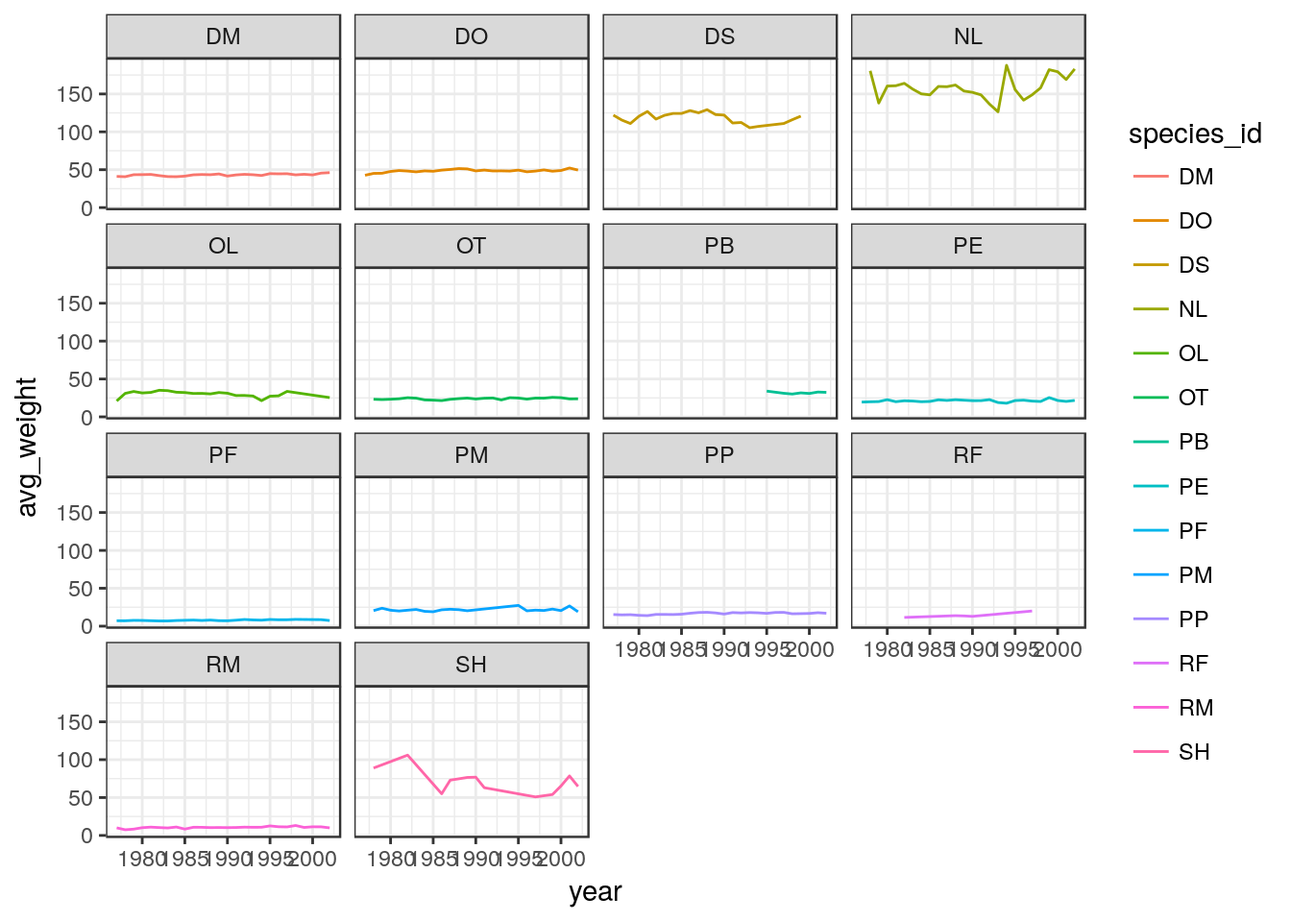
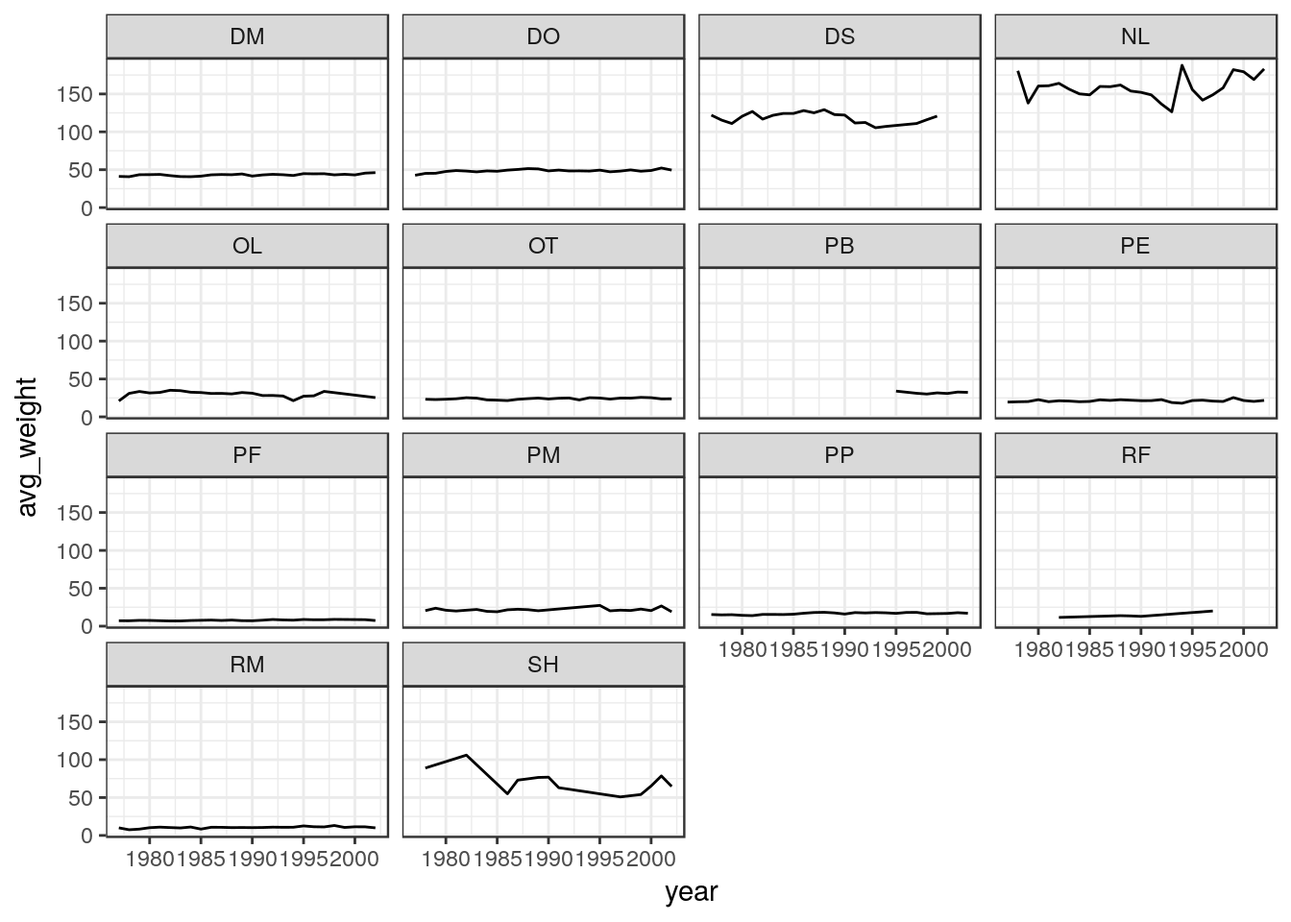
regenerate lesson

diff --git a/04-visualization-ggplot2.html b/04-visualization-ggplot2.html
@@ -368,8 +368,10 @@ div.tocify {
 </ul>
 </blockquote>
 <hr />
-<p>We start by loading the required packages.</p>
+<p>We start by loading the required packages. <strong><code>ggplot2</code></strong> is included in the <strong><code>tidyverse</code></strong> package.</p>
 <div class="sourceCode"><pre class="sourceCode r"><code class="sourceCode r"><span class="kw">library</span>(tidyverse)</code></pre></div>
+<p>If not still in the workspace, load the data we saved in the previous lesson.</p>
+<div class="sourceCode"><pre class="sourceCode r"><code class="sourceCode r">surveys_complete &lt;-<span class="st"> </span><span class="kw">read.csv</span>(<span class="st">&#39;data_output/surveys_complete.csv&#39;</span>)</code></pre></div>
 <div id="plotting-with-ggplot2" class="section level2">
 <h2>Plotting with <strong><code>ggplot2</code></strong></h2>
 <p><strong><code>ggplot2</code></strong> is a plotting package that makes it simple to create complex plots from data in a data frame. It provides a more programmatic interface for specifying what variables to plot, how they are displayed, and general visual properties, so we only need minimal changes if the underlying data change or if we decide to change from a bar plot to a scatterplot. This helps in creating publication quality plots with minimal amounts of adjustments and tweaking.</p>
@@ -413,7 +415,7 @@ surveys_plot
 <h3 id="challenge-optional">Challenge (optional)</h3>
 <p>Scatter plots can be useful exploratory tools for small datasets. For data sets with large numbers of observations, such as the <code>surveys_complete</code> data set, overplotting of points can be a limitation of scatter plots. One strategy for handling such settings is to use hexagonal binning of observations. The plot space is tessellated into hexagons. Each hexagon is assigned a color based on the number of observations that fall within its boundaries. To use hexagonal binning with <strong><code>ggplot2</code></strong>, first install the R package <code>hexbin</code> from CRAN:</p>
 <div class="sourceCode"><pre class="sourceCode r"><code class="sourceCode r"><span class="kw">install.packages</span>(<span class="st">&quot;hexbin&quot;</span>)</code></pre></div>
-<p>Then use <code>geom_hex()</code> function from the <strong><code>ggplot2</code></strong> package.</p>
+<p>Then use the <code>geom_hex()</code> function:</p>
 <div class="sourceCode"><pre class="sourceCode r"><code class="sourceCode r">surveys_plot +
 <span class="st"> </span><span class="kw">geom_hex</span>()</code></pre></div>
 <ul>
@@ -427,7 +429,7 @@ surveys_plot
 <div class="sourceCode"><pre class="sourceCode r"><code class="sourceCode r"><span class="kw">ggplot</span>(<span class="dt">data =</span> surveys_complete, <span class="kw">aes</span>(<span class="dt">x =</span> weight, <span class="dt">y =</span> hindfoot_length)) +
 <span class="st">    </span><span class="kw">geom_point</span>()</code></pre></div>
 <p><img src="img/R-ecology-create-ggplot-object-1.png" width="672" /></p>
-<p>Then, we start modifying this plot to extract more information from it. For instance, we can add transparency (alpha) to avoid overplotting:</p>
+<p>Then, we start modifying this plot to extract more information from it. For instance, we can add transparency (<code>alpha</code>) to avoid overplotting:</p>
 <div class="sourceCode"><pre class="sourceCode r"><code class="sourceCode r"><span class="kw">ggplot</span>(<span class="dt">data =</span> surveys_complete, <span class="kw">aes</span>(<span class="dt">x =</span> weight, <span class="dt">y =</span> hindfoot_length)) +
 <span class="st">    </span><span class="kw">geom_point</span>(<span class="dt">alpha =</span> <span class="fl">0.1</span>)</code></pre></div>
 <p><img src="img/R-ecology-adding-transparency-1.png" width="672" /></p>
@@ -439,6 +441,10 @@ surveys_plot
 <div class="sourceCode"><pre class="sourceCode r"><code class="sourceCode r"><span class="kw">ggplot</span>(<span class="dt">data =</span> surveys_complete, <span class="kw">aes</span>(<span class="dt">x =</span> weight, <span class="dt">y =</span> hindfoot_length)) +
 <span class="st">    </span><span class="kw">geom_point</span>(<span class="dt">alpha =</span> <span class="fl">0.1</span>, <span class="kw">aes</span>(<span class="dt">color=</span>species_id))</code></pre></div>
 <p><img src="img/R-ecology-color-by-species-1.png" width="672" /></p>
+<blockquote>
+<h3 id="challenge">Challenge</h3>
+<p>Use what you just learned to create a scatter plot of <code>weight</code> over <code>species_id</code> with the plot types showing in different colors. Is this a good way to show this type of data?</p>
+</blockquote>
 </div>
 <div id="boxplot" class="section level2">
 <h2>Boxplot</h2>
@@ -453,7 +459,7 @@ surveys_plot
 <p><img src="img/R-ecology-boxplot-with-points-1.png" width="672" /></p>
 <p>Notice how the boxplot layer is behind the jitter layer? What do you need to change in the code to put the boxplot in front of the points such that it’s not hidden?</p>
 <blockquote>
-<h3 id="challenges-optional">Challenges (optional)</h3>
+<h3 id="challenges">Challenges</h3>
 <p>Boxplots are useful summaries, but hide the <em>shape</em> of the distribution. For example, if there is a bimodal distribution, it would not be observed with a boxplot. An alternative to the boxplot is the violin plot (sometimes known as a beanplot), where the shape (of the density of points) is drawn.</p>
 <ul>
 <li>Replace the box plot with a violin plot; see <code>geom_violin()</code>.</li>
@@ -468,7 +474,9 @@ surveys_plot
 <li><p>Add color to the datapoints on your boxplot according to the plot from which the sample was taken (<code>plot_id</code>).</p></li>
 </ul>
 </blockquote>
+<blockquote>
 <p>Hint: Check the class for <code>plot_id</code>. Consider changing the class of <code>plot_id</code> from integer to factor. Why does this change how R makes the graph?</p>
+</blockquote>
 </div>
 <div id="plotting-time-series-data" class="section level2">
 <h2>Plotting time series data</h2>
@@ -484,51 +492,42 @@ surveys_plot
 <div class="sourceCode"><pre class="sourceCode r"><code class="sourceCode r"><span class="kw">ggplot</span>(<span class="dt">data =</span> yearly_counts, <span class="kw">aes</span>(<span class="dt">x =</span> year, <span class="dt">y =</span> n, <span class="dt">group =</span> species_id)) +
 <span class="st">    </span><span class="kw">geom_line</span>()</code></pre></div>
 <p><img src="img/R-ecology-time-series-by-species-1.png" width="672" /></p>
-<p>We will be able to distinguish species in the plot if we add colors:</p>
-<div class="sourceCode"><pre class="sourceCode r"><code class="sourceCode r"><span class="kw">ggplot</span>(<span class="dt">data =</span> yearly_counts, <span class="kw">aes</span>(<span class="dt">x =</span> year, <span class="dt">y =</span> n, <span class="dt">group =</span> species_id, <span class="dt">colour =</span> species_id)) +
+<p>We will be able to distinguish species in the plot if we add colors (using <code>color</code> also automatically groups the data):</p>
+<div class="sourceCode"><pre class="sourceCode r"><code class="sourceCode r"><span class="kw">ggplot</span>(<span class="dt">data =</span> yearly_counts, <span class="kw">aes</span>(<span class="dt">x =</span> year, <span class="dt">y =</span> n, <span class="dt">color =</span> species_id)) +
 <span class="st">    </span><span class="kw">geom_line</span>()</code></pre></div>
 <p><img src="img/R-ecology-time-series-with-colors-1.png" width="672" /></p>
 </div>
 <div id="faceting" class="section level2">
 <h2>Faceting</h2>
 <p>ggplot has a special technique called <em>faceting</em> that allows the user to split one plot into multiple plots based on a factor included in the dataset. We will use it to make a time series plot for each species:</p>
-<div class="sourceCode"><pre class="sourceCode r"><code class="sourceCode r"><span class="kw">ggplot</span>(<span class="dt">data =</span> yearly_counts, <span class="kw">aes</span>(<span class="dt">x =</span> year, <span class="dt">y =</span> n, <span class="dt">group =</span> species_id, <span class="dt">colour =</span> species_id)) +
+<div class="sourceCode"><pre class="sourceCode r"><code class="sourceCode r"><span class="kw">ggplot</span>(<span class="dt">data =</span> yearly_counts, <span class="kw">aes</span>(<span class="dt">x =</span> year, <span class="dt">y =</span> n)) +
 <span class="st">    </span><span class="kw">geom_line</span>() +
 <span class="st">    </span><span class="kw">facet_wrap</span>(~<span class="st"> </span>species_id)</code></pre></div>
 <p><img src="img/R-ecology-first-facet-1.png" width="672" /></p>
-<p>Now we would like to split the line in each plot by the sex of each individual measured. To do that we need to make counts in the data frame grouped by year, species_id, and sex:</p>
+<p>Now we would like to split the line in each plot by the sex of each individual measured. To do that we need to make counts in the data frame grouped by <code>year</code>, <code>species_id</code>, and <code>sex</code>:</p>
 <div class="sourceCode"><pre class="sourceCode r"><code class="sourceCode r"> yearly_sex_counts &lt;-<span class="st"> </span>surveys_complete %&gt;%
 <span class="st">                      </span><span class="kw">group_by</span>(year, species_id, sex) %&gt;%
 <span class="st">                      </span>tally</code></pre></div>
-<p>We can now make the faceted plot by splitting further by sex (within a single plot):</p>
-<div class="sourceCode"><pre class="sourceCode r"><code class="sourceCode r"> <span class="kw">ggplot</span>(<span class="dt">data =</span> yearly_sex_counts, <span class="kw">aes</span>(<span class="dt">x =</span> year, <span class="dt">y =</span> n, <span class="dt">color =</span> species_id, <span class="dt">group =</span> sex)) +
+<p>We can now make the faceted plot by splitting further by sex using <code>color</code> (within a single plot):</p>
+<div class="sourceCode"><pre class="sourceCode r"><code class="sourceCode r"> <span class="kw">ggplot</span>(<span class="dt">data =</span> yearly_sex_counts, <span class="kw">aes</span>(<span class="dt">x =</span> year, <span class="dt">y =</span> n, <span class="dt">color =</span> sex)) +
 <span class="st">     </span><span class="kw">geom_line</span>() +
 <span class="st">     </span><span class="kw">facet_wrap</span>(~<span class="st"> </span>species_id)</code></pre></div>
 <p><img src="img/R-ecology-facet-by-species-and-sex-1.png" width="672" /></p>
 <p>Usually plots with white background look more readable when printed. We can set the background to white using the function <code>theme_bw()</code>. Additionally, you can remove the grid:</p>
-<div class="sourceCode"><pre class="sourceCode r"><code class="sourceCode r"> <span class="kw">ggplot</span>(<span class="dt">data =</span> yearly_sex_counts, <span class="kw">aes</span>(<span class="dt">x =</span> year, <span class="dt">y =</span> n, <span class="dt">color =</span> species_id, <span class="dt">group =</span> sex)) +
+<div class="sourceCode"><pre class="sourceCode r"><code class="sourceCode r"> <span class="kw">ggplot</span>(<span class="dt">data =</span> yearly_sex_counts, <span class="kw">aes</span>(<span class="dt">x =</span> year, <span class="dt">y =</span> n, <span class="dt">color =</span> sex)) +
 <span class="st">     </span><span class="kw">geom_line</span>() +
 <span class="st">     </span><span class="kw">facet_wrap</span>(~<span class="st"> </span>species_id) +
 <span class="st">     </span><span class="kw">theme_bw</span>() +
-<span class="st">     </span><span class="kw">theme</span>(<span class="dt">panel.grid.major.x =</span> <span class="kw">element_blank</span>(),
-       <span class="dt">panel.grid.minor.x =</span> <span class="kw">element_blank</span>(),
-       <span class="dt">panel.grid.major.y =</span> <span class="kw">element_blank</span>(),
-       <span class="dt">panel.grid.minor.y =</span> <span class="kw">element_blank</span>())</code></pre></div>
+<span class="st">     </span><span class="kw">theme</span>(<span class="dt">panel.grid =</span> <span class="kw">element_blank</span>())</code></pre></div>
 <p><img src="img/R-ecology-facet-by-species-and-sex-white-bg-1.png" width="672" /></p>
 </div>
 <div id="ggplot2-themes" class="section level2">
 <h2><strong><code>ggplot2</code></strong> themes</h2>
 <p>In addition to <code>theme_bw()</code>, which changes the plot background to white, <strong><code>ggplot2</code></strong> comes with several other themes which can be useful to quickly change the look of your visualization. The complete list of themes is available at <a href="http://docs.ggplot2.org/current/ggtheme.html" class="uri">http://docs.ggplot2.org/current/ggtheme.html</a>. <code>theme_minimal()</code> and <code>theme_light()</code> are popular, and <code>theme_void()</code> can be useful as a starting point to create a new hand-crafted theme.</p>
 <p>The <a href="https://cran.r-project.org/web/packages/ggthemes/vignettes/ggthemes.html">ggthemes</a> package provides a wide variety of options (including an Excel 2003 theme). The <a href="https://www.ggplot2-exts.org"><strong><code>ggplot2</code></strong> extensions website</a> provides a list of packages that extend the capabilities of <strong><code>ggplot2</code></strong>, including additional themes.</p>
-<p>To make the plot easier to read, we can color by sex instead of species (species are already in separate plots, so we don’t need to distinguish them further):</p>
-<div class="sourceCode"><pre class="sourceCode r"><code class="sourceCode r"><span class="kw">ggplot</span>(<span class="dt">data =</span> yearly_sex_counts, <span class="kw">aes</span>(<span class="dt">x =</span> year, <span class="dt">y =</span> n, <span class="dt">color =</span> sex, <span class="dt">group =</span> sex)) +
-<span class="st">    </span><span class="kw">geom_line</span>() +
-<span class="st">    </span><span class="kw">facet_wrap</span>(~<span class="st"> </span>species_id) +
-<span class="st">    </span><span class="kw">theme_bw</span>()</code></pre></div>
-<p><img src="img/R-ecology-facet-by-species-and-sex-colored-1.png" width="672" /></p>
-</div>
-<div id="challenge-optional-1" class="section level2">
-<h2>Challenge (optional)</h2>
+<blockquote>
+<h3 id="challenge-1">Challenge</h3>
+</blockquote>
 <blockquote>
 <p>Use what you just learned to create a plot that depicts how the average weight of each species changes through the years.</p>
 </blockquote>
@@ -538,7 +537,7 @@ surveys_plot
 yearly_weight <- surveys_complete %>%
                  group_by(year, species_id) %>%
                  summarize(avg_weight = mean(weight))
-ggplot(data = yearly_weight, aes(x=year, y=avg_weight, color = species_id, group = species_id)) +
+ggplot(data = yearly_weight, aes(x=year, y=avg_weight)) +
     geom_line() +
     facet_wrap(~ species_id) +
     theme_bw()
@@ -547,17 +546,17 @@ ggplot(data = yearly_weight, aes(x=year, y=avg_weight, color = species_id, group
 <img src="img/R-ecology-average-weight-time-series-1.png" width="672" />
 -->
 <p>The <code>facet_wrap</code> geometry extracts plots into an arbitrary number of dimensions to allow them to cleanly fit on one page. On the other hand, the <code>facet_grid</code> geometry allows you to explicitly specify how you want your plots to be arranged via formula notation (<code>rows ~ columns</code>; a <code>.</code> can be used as a placeholder that indicates only one row or column).</p>
-<p>Let’s modify the previous plot to compare how the weights of male and females has changed through time:</p>
+<p>Let’s modify the previous plot to compare how the weights of males and females has changed through time:</p>
 <div class="sourceCode"><pre class="sourceCode r"><code class="sourceCode r"><span class="co"># One column, facet by rows</span>
 yearly_sex_weight &lt;-<span class="st"> </span>surveys_complete %&gt;%
 <span class="st">    </span><span class="kw">group_by</span>(year, sex, species_id) %&gt;%
 <span class="st">    </span><span class="kw">summarize</span>(<span class="dt">avg_weight =</span> <span class="kw">mean</span>(weight))
-<span class="kw">ggplot</span>(<span class="dt">data =</span> yearly_sex_weight, <span class="kw">aes</span>(<span class="dt">x=</span>year, <span class="dt">y=</span>avg_weight, <span class="dt">color =</span> species_id, <span class="dt">group =</span> species_id)) +
+<span class="kw">ggplot</span>(<span class="dt">data =</span> yearly_sex_weight, <span class="kw">aes</span>(<span class="dt">x=</span>year, <span class="dt">y=</span>avg_weight, <span class="dt">color =</span> species_id)) +
 <span class="st">    </span><span class="kw">geom_line</span>() +
 <span class="st">    </span><span class="kw">facet_grid</span>(sex ~<span class="st"> </span>.)</code></pre></div>
 <p><img src="img/R-ecology-average-weight-time-facet-sex-rows-1.png" width="672" /></p>
 <div class="sourceCode"><pre class="sourceCode r"><code class="sourceCode r"><span class="co"># One row, facet by column</span>
-<span class="kw">ggplot</span>(<span class="dt">data =</span> yearly_sex_weight, <span class="kw">aes</span>(<span class="dt">x=</span>year, <span class="dt">y=</span>avg_weight, <span class="dt">color =</span> species_id, <span class="dt">group =</span> species_id)) +
+<span class="kw">ggplot</span>(<span class="dt">data =</span> yearly_sex_weight, <span class="kw">aes</span>(<span class="dt">x=</span>year, <span class="dt">y=</span>avg_weight, <span class="dt">color =</span> species_id)) +
 <span class="st">    </span><span class="kw">geom_line</span>() +
 <span class="st">    </span><span class="kw">facet_grid</span>(. ~<span class="st"> </span>sex)</code></pre></div>
 <p><img src="img/R-ecology-average-weight-time-facet-sex-columns-1.png" width="672" /></p>
@@ -566,7 +565,7 @@ yearly_sex_weight &lt;-<span class="st"> </span>surveys_complete %&gt;%
 <h2>Customization</h2>
 <p>Take a look at the <a href="https://www.rstudio.com/wp-content/uploads/2016/11/ggplot2-cheatsheet-2.1.pdf"><strong><code>ggplot2</code></strong> cheat sheet</a>, and think of ways you could improve the plot.</p>
 <p>Now, let’s change names of axes to something more informative than ‘year’ and ‘n’ and add a title to the figure:</p>
-<div class="sourceCode"><pre class="sourceCode r"><code class="sourceCode r"><span class="kw">ggplot</span>(<span class="dt">data =</span> yearly_sex_counts, <span class="kw">aes</span>(<span class="dt">x =</span> year, <span class="dt">y =</span> n, <span class="dt">color =</span> sex, <span class="dt">group =</span> sex)) +
+<div class="sourceCode"><pre class="sourceCode r"><code class="sourceCode r"><span class="kw">ggplot</span>(<span class="dt">data =</span> yearly_sex_counts, <span class="kw">aes</span>(<span class="dt">x =</span> year, <span class="dt">y =</span> n, <span class="dt">color =</span> sex)) +
 <span class="st">    </span><span class="kw">geom_line</span>() +
 <span class="st">    </span><span class="kw">facet_wrap</span>(~<span class="st"> </span>species_id) +
 <span class="st">    </span><span class="kw">labs</span>(<span class="dt">title =</span> <span class="st">&#39;Observed species in time&#39;</span>,
@@ -575,7 +574,7 @@ yearly_sex_weight &lt;-<span class="st"> </span>surveys_complete %&gt;%
 <span class="st">    </span><span class="kw">theme_bw</span>()</code></pre></div>
 <p><img src="img/R-ecology-number-species-year-with-right-labels-1.png" width="672" /></p>
 <p>The axes have more informative names, but their readability can be improved by increasing the font size:</p>
-<div class="sourceCode"><pre class="sourceCode r"><code class="sourceCode r"><span class="kw">ggplot</span>(<span class="dt">data =</span> yearly_sex_counts, <span class="kw">aes</span>(<span class="dt">x =</span> year, <span class="dt">y =</span> n, <span class="dt">color =</span> sex, <span class="dt">group =</span> sex)) +
+<div class="sourceCode"><pre class="sourceCode r"><code class="sourceCode r"><span class="kw">ggplot</span>(<span class="dt">data =</span> yearly_sex_counts, <span class="kw">aes</span>(<span class="dt">x =</span> year, <span class="dt">y =</span> n, <span class="dt">color =</span> sex)) +
 <span class="st">    </span><span class="kw">geom_line</span>() +
 <span class="st">    </span><span class="kw">facet_wrap</span>(~<span class="st"> </span>species_id) +
 <span class="st">    </span><span class="kw">labs</span>(<span class="dt">title =</span> <span class="st">&#39;Observed species in time&#39;</span>,
@@ -586,7 +585,7 @@ yearly_sex_weight &lt;-<span class="st"> </span>surveys_complete %&gt;%
 <p><img src="img/R-ecology-number-species-year-with-right-labels-xfont-size-1.png" width="672" /></p>
 <p>Note that it is also possible to change the fonts of your plots. If you are on Windows, you may have to install the <a href="https://github.com/wch/extrafont"><strong>extrafont</strong> package</a>, and follow the instructions included in the README for this package.</p>
 <p>After our manipulations, you may notice that the values on the x-axis are still not properly readable. Let’s change the orientation of the labels and adjust them vertically and horizontally so they don’t overlap. You can use a 90 degree angle, or experiment to find the appropriate angle for diagonally oriented labels:</p>
-<div class="sourceCode"><pre class="sourceCode r"><code class="sourceCode r"><span class="kw">ggplot</span>(<span class="dt">data =</span> yearly_sex_counts, <span class="kw">aes</span>(<span class="dt">x =</span> year, <span class="dt">y =</span> n, <span class="dt">color =</span> sex, <span class="dt">group =</span> sex)) +
+<div class="sourceCode"><pre class="sourceCode r"><code class="sourceCode r"><span class="kw">ggplot</span>(<span class="dt">data =</span> yearly_sex_counts, <span class="kw">aes</span>(<span class="dt">x =</span> year, <span class="dt">y =</span> n, <span class="dt">color =</span> sex)) +
 <span class="st">    </span><span class="kw">geom_line</span>() +
 <span class="st">    </span><span class="kw">facet_wrap</span>(~<span class="st"> </span>species_id) +
 <span class="st">    </span><span class="kw">labs</span>(<span class="dt">title =</span> <span class="st">&#39;Observed species in time&#39;</span>,
@@ -605,15 +604,24 @@ yearly_sex_weight &lt;-<span class="st"> </span>surveys_complete %&gt;%
 <span class="st">    </span><span class="kw">geom_boxplot</span>() +
 <span class="st">    </span>grey_theme</code></pre></div>
 <p><img src="img/R-ecology-number-species-year-with-right-labels-xfont-orientation-1.png" width="672" /></p>
+<blockquote>
+<h3 id="challange">Challange</h3>
+</blockquote>
+<blockquote>
 <p>With all of this information in hand, please take another five minutes to either improve one of the plots generated in this exercise or create a beautiful graph of your own. Use the RStudio <a href="https://www.rstudio.com/wp-content/uploads/2016/11/ggplot2-cheatsheet-2.1.pdf"><strong><code>ggplot2</code></strong> cheat sheet</a> for inspiration.</p>
+</blockquote>
+<blockquote>
 <p>Here are some ideas:</p>
+</blockquote>
+<blockquote>
 <ul>
 <li>See if you can change the thickness of the lines.</li>
 <li>Can you find a way to change the name of the legend? What about its labels?</li>
 <li>Try using a different color palette (see <a href="http://www.cookbook-r.com/Graphs/Colors_(ggplot2)/" class="uri">http://www.cookbook-r.com/Graphs/Colors_(ggplot2)/</a>).</li>
 </ul>
+</blockquote>
 <p>After creating your plot, you can save it to a file in your favorite format. You can easily change the dimension (and resolution) of your plot by adjusting the appropriate arguments (<code>width</code>, <code>height</code> and <code>dpi</code>):</p>
-<div class="sourceCode"><pre class="sourceCode r"><code class="sourceCode r">my_plot &lt;-<span class="st"> </span><span class="kw">ggplot</span>(<span class="dt">data =</span> yearly_sex_counts, <span class="kw">aes</span>(<span class="dt">x =</span> year, <span class="dt">y =</span> n, <span class="dt">color =</span> sex, <span class="dt">group =</span> sex)) +
+<div class="sourceCode"><pre class="sourceCode r"><code class="sourceCode r">my_plot &lt;-<span class="st"> </span><span class="kw">ggplot</span>(<span class="dt">data =</span> yearly_sex_counts, <span class="kw">aes</span>(<span class="dt">x =</span> year, <span class="dt">y =</span> n, <span class="dt">color =</span> sex)) +
 <span class="st">    </span><span class="kw">geom_line</span>() +
 <span class="st">    </span><span class="kw">facet_wrap</span>(~<span class="st"> </span>species_id) +
 <span class="st">    </span><span class="kw">labs</span>(<span class="dt">title =</span> <span class="st">&#39;Observed species in time&#39;</span>,
@@ -624,8 +632,9 @@ yearly_sex_weight &lt;-<span class="st"> </span>surveys_complete %&gt;%
                         <span class="dt">axis.text.y =</span> <span class="kw">element_text</span>(<span class="dt">colour=</span><span class="st">&quot;grey20&quot;</span>, <span class="dt">size=</span><span class="dv">12</span>),
           <span class="dt">text=</span><span class="kw">element_text</span>(<span class="dt">size=</span><span class="dv">16</span>))
 <span class="kw">ggsave</span>(<span class="st">&quot;name_of_file.png&quot;</span>, my_plot, <span class="dt">width=</span><span class="dv">15</span>, <span class="dt">height=</span><span class="dv">10</span>)</code></pre></div>
+<p>Note: The parameters <code>width</code> and <code>height</code> also determine the font size in the saved plot.</p>
 <p style="text-align: right; font-size: small;">
-Page build on: 2017-07-24 16:38:26
+Page build on: 2017-08-02 13:21:00
 </p>
 </div>
 

diff --git a/02-starting-with-data.html b/02-starting-with-data.html
@@ -514,10 +514,10 @@ div.tocify {
 <div id="indexing-and-subsetting-data-frames" class="section level2">
 <h2>Indexing and subsetting data frames</h2>
 <p>Our survey data frame has rows and columns (it has 2 dimensions), if we want to extract some specific data from it, we need to specify the “coordinates” we want from it. Row numbers come first, followed by column numbers. However, note that different ways of specifying these coordinates lead to results with different classes.</p>
-<div class="sourceCode"><pre class="sourceCode r"><code class="sourceCode r">surveys[<span class="dv">1</span>]      <span class="co"># first column in the data frame (as a data.frame)</span>
-surveys[, <span class="dv">1</span>]    <span class="co"># first column in the data frame (as a vector)</span>
-surveys[<span class="dv">1</span>, <span class="dv">1</span>]   <span class="co"># first element in the first column of the data frame (as a vector)</span>
+<div class="sourceCode"><pre class="sourceCode r"><code class="sourceCode r">surveys[<span class="dv">1</span>, <span class="dv">1</span>]   <span class="co"># first element in the first column of the data frame (as a vector)</span>
 surveys[<span class="dv">1</span>, <span class="dv">6</span>]   <span class="co"># first element in the 6th column (as a vector)</span>
+surveys[, <span class="dv">1</span>]    <span class="co"># first column in the data frame (as a vector)</span>
+surveys[<span class="dv">1</span>]      <span class="co"># first column in the data frame (as a data.frame)</span>
 surveys[<span class="dv">1</span>:<span class="dv">3</span>, <span class="dv">7</span>] <span class="co"># first three elements in the 7th column (as a vector)</span>
 surveys[<span class="dv">3</span>, ]    <span class="co"># the 3rd element for all columns (as a data.frame)</span>
 head_surveys &lt;-<span class="st"> </span>surveys[<span class="dv">1</span>:<span class="dv">6</span>, ] <span class="co"># equivalent to head(surveys)</span></code></pre></div>
@@ -598,7 +598,7 @@ sex <span class="co"># after re-ordering</span></code></pre></div>
 <div class="sourceCode"><pre class="sourceCode r"><code class="sourceCode r">## bar plot of the number of females and males captured during the experiment:
 <span class="kw">plot</span>(surveys$sex)</code></pre></div>
 <p><img src="img/R-ecology-unnamed-chunk-21-1.png" width="672" /></p>
-<p>In addition to males and females, there are about 1700 individuals for which the sex information hasn’t been recorded. Additionally, for the these individuals, there is no label to indicate that the information is missing. Let’s rename this label to something more meaningful. Before doing that, we’re going to pull out the data on sex and work with that data, so we’re not modifying the working copy of the data frame:</p>
+<p>In addition to males and females, there are about 1700 individuals for which the sex information hasn’t been recorded. Additionally, for these individuals, there is no label to indicate that the information is missing. Let’s rename this label to something more meaningful. Before doing that, we’re going to pull out the data on sex and work with that data, so we’re not modifying the working copy of the data frame:</p>
 <div class="sourceCode"><pre class="sourceCode r"><code class="sourceCode r">sex &lt;-<span class="st"> </span>surveys$sex
 <span class="kw">head</span>(sex)</code></pre></div>
 <pre><code>#&gt; [1] M M        
@@ -670,12 +670,12 @@ surveys$plot_type &lt;-<span class="st"> </span><span class="kw">factor</span>(s
 
    --></p>
 </blockquote>
-<p>The automatic conversion of data type is sometimes a blessing, sometimes an annoyance. Be aware that it exists, learn the rules, and double check that data you import in R are of the correct type within your data frame. If not, use it to your advantage to detect mistakes that might have been introduced during data entry (a letter in a column that should only contain numbers for instance.).</p>
+<p>The automatic conversion of data type is sometimes a blessing, sometimes an annoyance. Be aware that it exists, learn the rules, and double check that data you import in R are of the correct type within your data frame. If not, use it to your advantage to detect mistakes that might have been introduced during data entry (a letter in a column that should only contain numbers for instance).</p>
 </div>
 </div>
 <div id="formatting-dates" class="section level2">
 <h2>Formatting Dates</h2>
-<p>One of the most common issues that new (and experienced!) R users have is converting date and date time information into a variable that is appropriate and usable during analyses. As a reminder from earlier in this lesson, the best practice for dealing with date data is to ensure that each component of your date is stored as a separate variable. Using <code>str()</code>, We can confirm that our data frame has a separate column for day, month, and year, and each contains integer values.</p>
+<p>One of the most common issues that new (and experienced!) R users have is converting date and time information into a variable that is appropriate and usable during analyses. As a reminder from earlier in this lesson, the best practice for dealing with date data is to ensure that each component of your date is stored as a separate variable. Using <code>str()</code>, We can confirm that our data frame has a separate column for day, month, and year, and each contains integer values.</p>
 <div class="sourceCode"><pre class="sourceCode r"><code class="sourceCode r"><span class="kw">str</span>(surveys)</code></pre></div>
 <p>We’re going to be using the <code>ymd()</code> function from the package <strong><code>lubridate</code></strong>. This function is designed to take a vector representing year, month, and day and convert that information to a POSIXct vector. POSIXct is a class of data recognized by R as being a date or date and time. The argument that the function requires is relatively flexible, but, as a best practice, is a character vector formatted as “YYYY-MM-DD”.</p>
 <p>Start by loading the required package:</p>
@@ -686,11 +686,11 @@ surveys$plot_type &lt;-<span class="st"> </span><span class="kw">factor</span>(s
 <p>This character vector can be used as the argument for <code>ymd()</code>:</p>
 <div class="sourceCode"><pre class="sourceCode r"><code class="sourceCode r"><span class="kw">ymd</span>(<span class="kw">paste</span>(surveys$year, surveys$month, surveys$day, <span class="dt">sep=</span><span class="st">&quot;-&quot;</span>))</code></pre></div>
 <p>The resulting POSIXct vector can be added to <code>surveys</code> as a new column called <code>date</code>:</p>
-<div class="sourceCode"><pre class="sourceCode r"><code class="sourceCode r">surveys$date&lt;-<span class="kw">ymd</span>(<span class="kw">paste</span>(surveys$year, surveys$month, surveys$day, <span class="dt">sep=</span><span class="st">&quot;-&quot;</span>))
+<div class="sourceCode"><pre class="sourceCode r"><code class="sourceCode r">surveys$date &lt;-<span class="st"> </span><span class="kw">ymd</span>(<span class="kw">paste</span>(surveys$year, surveys$month, surveys$day, <span class="dt">sep=</span><span class="st">&quot;-&quot;</span>))
 
-<span class="kw">str</span>(surveys) <span class="co"># notice the new column, with &#39;Date&#39; as the class</span></code></pre></div>
+<span class="kw">str</span>(surveys) <span class="co"># notice the new column, with &#39;date&#39; as the class</span></code></pre></div>
 <p style="text-align: right; font-size: small;">
-Page build on: 2017-07-21 07:38:50
+Page build on: 2017-08-02 13:20:20
 </p>
 </div>
 

diff --git a/03-dplyr.html b/03-dplyr.html
@@ -558,8 +558,8 @@ surveys_hindfoot_half <- surveys %>%
 <ol style="list-style-type: decimal">
 <li><p>Make a wide data frame with <code>year</code> as columns, <code>plot_id</code> as rows, and the values are the number of genera per plot. You will need to summarize before reshaping, and use the function <code>n_distinct</code> to get the number of unique types of a genera. It’s a powerful function! See <code>?n_distinct</code> for more.</p></li>
 <li><p>Now take that data frame, and make it long again, so each row is a unique <code>plot_id</code> <code>year</code> combination.</p></li>
-<li><p>The <code>surveys</code> data set is note truly wide or long because both there are two columns of measurement - <code>hindfoot_length</code> and <code>weight</code>. This makes it difficult to do things like look at the relationship between mean values of each measurement per year in different plot types. Let’s walk through a common solution for this type of problem. First, use <code>gather</code> to create a truly long dataset where we have a key column called <code>measurement</code> and a <code>value</code> column that takes on the value of either <code>hindfoot_length</code> or <code>weight</code>. Hint: You’ll need to specify which columns are being gathered.</p></li>
-<li><p>With this new truly long data set, calculate the average of each <code>measurement</code> in each <code>year</code> &gt; for each different <code>plot_type</code>. Then <code>spread</code> them into a wide data set with a column for <code>hindfoot_length</code> and <code>weight</code>. Hint: Remember, you only need to specify the key and value columns for <code>spread</code>.</p></li>
+<li><p>The <code>surveys</code> data set is not truly wide or long because there are two columns of measurement - <code>hindfoot_length</code> and <code>weight</code>. This makes it difficult to do things like look at the relationship between mean values of each measurement per year in different plot types. Let’s walk through a common solution for this type of problem. First, use <code>gather</code> to create a truly long dataset where we have a key column called <code>measurement</code> and a <code>value</code> column that takes on the value of either <code>hindfoot_length</code> or <code>weight</code>. Hint: You’ll need to specify which columns are being gathered.</p></li>
+<li><p>With this new truly long data set, calculate the average of each <code>measurement</code> in each <code>year</code> for each different <code>plot_type</code>. Then <code>spread</code> them into a wide data set with a column for <code>hindfoot_length</code> and <code>weight</code>. Hint: Remember, you only need to specify the key and value columns for <code>spread</code>.</p></li>
 </ol>
 </blockquote>
 <!---
@@ -596,7 +596,7 @@ surveys_complete &lt;-<span class="st"> </span>surveys_complete %&gt;%
 <div class="sourceCode"><pre class="sourceCode r"><code class="sourceCode r"><span class="kw">write.csv</span>(surveys_complete, <span class="dt">file =</span> <span class="st">&quot;data_output/surveys_complete.csv&quot;</span>,
           <span class="dt">row.names =</span> <span class="ot">FALSE</span>)</code></pre></div>
 <p style="text-align: right; font-size: small;">
-Page build on: 2017-07-21 07:38:54
+Page build on: 2017-08-02 13:24:23
 </p>
 </div>
 
